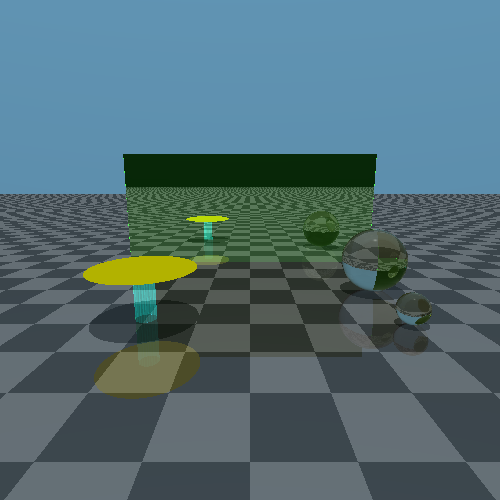
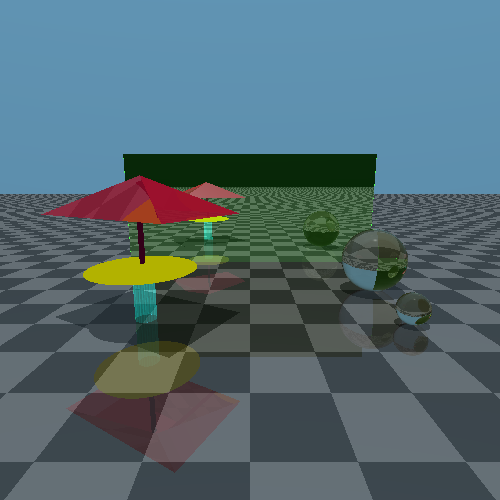
add triangles

diff --git a/src/shapes/triangle.rs b/src/shapes/triangle.rs
@@ -1,0 +1,208 @@
+use crate::linalg::matrix::Matrix;
+use crate::linalg::tuple::Tuple;
+use crate::material::Material;
+use crate::ray::Ray;
+use crate::shapes::shape::Shape;
+use crate::utils::EPSILON;
+use crate::world::Intersection;
+
+use uuid::Uuid;
+
+
+#[derive(Clone)]
+pub struct Triangle {
+    pub id: Uuid,
+    pub original_p1: Tuple,
+    pub original_p2: Tuple,
+    pub original_p3: Tuple,
+    pub p1: Tuple,
+    pub p2: Tuple,
+    pub p3: Tuple,
+    pub e1: Tuple,
+    pub e2: Tuple,
+    pub normal: Tuple,
+    pub transformation: Matrix,
+    pub inv_transformation: Matrix,
+    pub material: Material,
+}
+
+impl Triangle {
+    pub fn new(p1: Tuple, p2: Tuple, p3: Tuple, transformation: Matrix, material: Material) -> Triangle {
+        let mut result = Triangle {
+            id: Uuid::new_v4(),
+            original_p1: p1,
+            original_p2: p2,
+            original_p3: p3,
+            p1: p1,
+            p2: p2,
+            p3: p3,
+            e1: p1,
+            e2: p1,
+            normal: p1,
+            inv_transformation: transformation.invert(),
+            transformation: transformation,
+            material: material,
+        };
+        result.update();
+        result
+    }
+
+    pub fn update(&mut self) {
+        self.p1 = self.transformation.multiply_tuple(&self.original_p1);
+        self.p2 = self.transformation.multiply_tuple(&self.original_p2);
+        self.p3 = self.transformation.multiply_tuple(&self.original_p3);
+
+        self.e1 = self.p2.subtract(&self.p1);
+        self.e2 = self.p3.subtract(&self.p1);
+        self.normal = self.p2.cross(&self.p1).normalize();
+    }
+}
+
+impl Shape for Triangle {
+    fn normal_at(&self, _p: &Tuple) -> Tuple {
+        self.normal.clone()
+    }
+
+    fn intersect(&self, r: &Ray) -> Vec<Intersection> {
+        let mut result = Vec::new();
+
+        // Ray is parallel to triangle.
+        let dir_cross_e2 = r.direction.cross(&self.e2);
+        let det = self.e1.dot(&dir_cross_e2);
+        if det.abs() < EPSILON {
+            return result;
+        }
+
+        // Ray misses over p3-p1.
+        let f = 1.0 / det;
+        let p1_to_origin = r.origin.subtract(&self.p1);
+        let u = f * p1_to_origin.dot(&dir_cross_e2);
+        if u < 0.0 || u > 1.0 {
+            return result;
+        }
+
+        // Ray misses over p1-p2 or p2-p3.
+        let origin_cross_e1 = p1_to_origin.cross(&self.e1);
+        let v = f * r.direction.dot(&origin_cross_e1);
+        if v < 0.0 || (u + v) > 1.0 {
+            return result;
+        }
+
+        // Ray hits the triangle.
+        let t = f * self.e2.dot(&origin_cross_e1);
+        result.push(Intersection::new(t, self));
+
+        result
+    }
+
+    fn uv_coordinates(&self, p: &Tuple) -> Tuple {
+        // TODO
+        Tuple::point(p.x, p.y, p.z)
+    }
+
+    fn get_id(&self) -> &Uuid {
+        &self.id
+    }
+
+    fn set_transformation(&mut self, t: Matrix) {
+        self.inv_transformation = t.invert();
+        self.transformation = t;
+        self.update();
+    }
+
+    fn get_transformation(&self) -> &Matrix {
+        &self.transformation
+    }
+
+    fn get_inverse_transformation(&self) -> &Matrix {
+        &self.inv_transformation
+    }
+
+    fn set_material(&mut self, mat: Material) {
+        self.material = mat;
+    }
+    fn get_material(&self) -> &Material {
+        &self.material
+    }
+
+}
+
+
+#[cfg(test)]
+mod tests {
+    use super::*;
+
+    #[test]
+    fn test_default() {
+        let t = Triangle::new(
+            Tuple::point(0.0, 1.0, 0.0),
+            Tuple::point(-1.0, 0.0, 0.0),
+            Tuple::point(1.0, 0.0, 0.0),
+            Matrix::identity(4),
+            Material::default(),
+        );
+
+        let e1 = Tuple::vector(-1.0, -1.0, 0.0);
+        let e2 = Tuple::vector(1.0, -1.0, 0.0);
+        let normal = Tuple::vector(0.0, 0.0, -1.0);
+        assert_eq!(t.e1, e1);
+        assert_eq!(t.e2, e2);
+        assert_eq!(t.normal, normal);
+    }
+
+    #[test]
+    fn test_ray_miss() {
+        let t = Triangle::new(
+            Tuple::point(0.0, 1.0, 0.0),
+            Tuple::point(-1.0, 0.0, 0.0),
+            Tuple::point(1.0, 0.0, 0.0),
+            Matrix::identity(4),
+            Material::default(),
+        );
+        let r = Ray {
+            origin: Tuple::point(0.0, -1.0, -2.0),
+            direction: Tuple::vector(0.0, 1.0, 0.0)
+        };
+        let ix = t.intersect(&r);
+        assert_eq!(ix.len(), 0);
+
+        let r = Ray {
+            origin: Tuple::point(1.0, 1.0, -2.0),
+            direction: Tuple::vector(0.0, 0.0, 1.0)
+        };
+        let ix = t.intersect(&r);
+        assert_eq!(ix.len(), 0);
+
+        let r = Ray {
+            origin: Tuple::point(-1.0, 1.0, -2.0),
+            direction: Tuple::vector(0.0, 0.0, 1.0)
+        };
+        let ix = t.intersect(&r);
+        assert_eq!(ix.len(), 0);
+
+        let r = Ray {
+            origin: Tuple::point(1.0, -1.0, -2.0),
+            direction: Tuple::vector(0.0, 0.0, 1.0)
+        };
+        let ix = t.intersect(&r);
+        assert_eq!(ix.len(), 0);
+    }
+
+    #[test]
+    fn test_ray_hit() {
+        let t = Triangle::new(
+            Tuple::point(0.0, 1.0, 0.0),
+            Tuple::point(-1.0, 0.0, 0.0),
+            Tuple::point(1.0, 0.0, 0.0),
+            Matrix::identity(4),
+            Material::default(),
+        );
+        let r = Ray {
+            origin: Tuple::point(0.0, 0.5, -2.0),
+            direction: Tuple::vector(0.0, 0.0, 1.0)
+        };
+        let ix = t.intersect(&r);
+        assert_eq!(ix.len(), 1);
+        assert_eq!(ix[0].t, 2.0);
+    }
+}

diff --git a/src/scene.rs b/src/scene.rs
@@ -14,7 +14,7 @@ use crate::light::PointLight;
 use crate::linalg::matrix::Matrix;
 use crate::linalg::tuple::Tuple;
 use crate::material::Material;
-use crate::shapes::{shape::Shape, sphere::Sphere, plane::Plane, cube::Cube, cylinder::Cylinder};
+use crate::shapes::{shape::Shape, sphere::Sphere, plane::Plane, cube::Cube, cylinder::Cylinder, triangle::Triangle};
 use crate::world::World;
 
 use serde::{Deserialize};
@@ -72,6 +72,11 @@ pub struct SceneObject {
     pub min_y: Option<f64>,
     pub max_y: Option<f64>,
     pub closed: Option<bool>,
+
+    // Triangle specific parameters
+    pub p1: Option<Vec<f64>>,
+    pub p2: Option<Vec<f64>>,
+    pub p3: Option<Vec<f64>>,
 
     pub material: Option<String>,
     pub color: Option<Vec<f64>>,
@@ -275,6 +280,18 @@ pub fn make_world(scene: &Scene) -> World {
                 c.max_y = value.max_y.unwrap_or(c.max_y);
                 c.closed = value.closed.unwrap_or(c.closed);
                 c
+            },
+            "triangle" => {
+                let p1 = value.p1.as_ref().unwrap();
+                let p2 = value.p2.as_ref().unwrap();
+                let p3 = value.p3.as_ref().unwrap();
+                Box::new(Triangle::new(
+                    Tuple::point(p1[0], p1[1], p1[2]),
+                    Tuple::point(p2[0], p2[1], p2[2]),
+                    Tuple::point(p3[0], p3[1], p3[2]),
+                    Matrix::identity(4),
+                    Material::default()
+                ))
             },
             _ => panic!("Undefined shape: {:?}!", value.shape)
         };

diff --git a/src/shapes/mod.rs b/src/shapes/mod.rs
@@ -4,3 +4,4 @@ pub mod cube;
 pub mod cylinder;
 pub mod plane;
 pub mod sphere;
+pub mod triangle;
